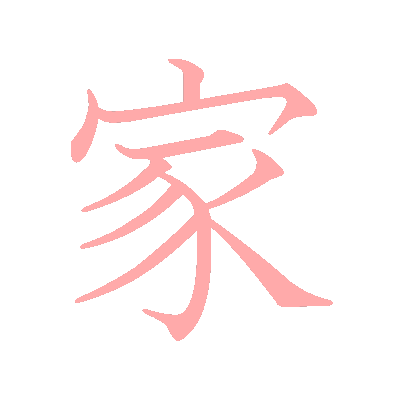
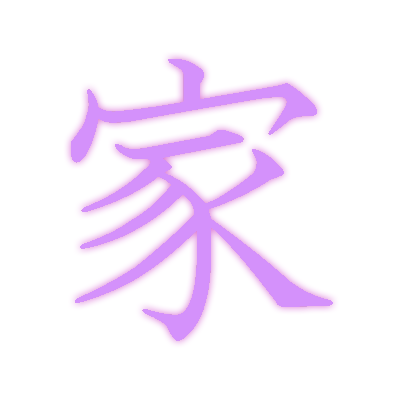
add background, custom header, change all site colors

Changed region(s): [[0.15, 0.12, 0.84, 0.87]]

diff --git a/css/styles.css b/css/styles.css
@@ -1,14 +1,17 @@
 .sidebar  {
   float: left;
   width: 150px;
-  background-color: rgb(85, 0, 0);
+  background-color: rgb(63, 19, 94);
 }
 body  {
-  background-color: rgb(128, 21, 21);
-  margin: 0px;
+  color: rgb(212, 145, 251);
+  background-image: url("../img/background.png");
+  background-repeat: no-repeat;
+  background-attachment: fixed;
+  background-position: center;
+  background-size: 100% 100%;
 }
 .sidetext  {
-    color: rgb(255, 170, 170);
     margin-left: 10px;
     margin-right: 10px;
     font-size: 11px;
@@ -20,22 +23,21 @@ body  {
   color: rgb(212, 106, 106);
 }
 .sideabout  {
-  color: rgb(255, 170, 170);
   margin-left: 10px;
   line-height: 100px;
 }
 .sideabout:hover  {
-  color: rgb(212, 106, 106);
+  color: rgb(173, 68, 124);
 }
 h1  {
   font-size: 15px;
   margin-left: 10px;
-  color: rgb(212, 106, 106);
+  color: rgb(173, 68, 124);
   text-decoration: underline;
 }
 a {
   text-decoration: none;
-  color: rgb(255, 170, 170);
+  color: rgb(212, 145, 251);
 }
 .container-fluid  {
   margin-left: 150px;
@@ -43,18 +45,17 @@ a {
   padding-top: 0px;
   border-top: 0px;
 }
-.jumbotron  {
-  background-color: rgb(0, 0, 0, 0);
-}
 .header {
   text-align: center;
 }
+.header p {
+  text-decoration: underline;
+}
 .abouttext  {
-  background-color: rgb(212, 106, 106);
+  background-color: rgba(173, 68, 124, 0.75);
   border: solid 5px;
   border-radius: 4px;
-  border-color: rgb(212, 106, 106);
-  color: rgb(255, 170, 170);
+  border-color: rgba(173, 68, 124, 0);
   text-shadow: 2px 2px 4px rgb(85, 0, 0);
 }
 .panel-heading  {
@@ -66,7 +67,7 @@ h5  {
 .selfie img {
   float: right;
   margin: 10px;
-  border: solid 2px rgb(85, 0, 0);
+  border: solid 2px rgb(173, 68, 124);
   border-radius: 2px;
 }
 .abouttext a {
@@ -74,10 +75,14 @@ h5  {
 }
 .header  {
   margin-bottom: 90px;
+  font-family: monospace;
 }
 .desc {
-  color: rgb(212, 106, 106);
+  color: rgb(173, 68, 124);
   margin-left: 15px;
   margin-right: 10px;
   font-size: 11px;
+}
+h2  {
+  font-size: 50px;
 }

diff --git a/index.html b/index.html
@@ -10,7 +10,7 @@
       <a href="index.html">
         <img src="img/home.png" alt="A picture of the Kanji for 'Home'" width="100%">
       </a>
-      <p class="sidetext"><span style="color:rgb(212, 106, 106)">_____________________</span></p>
+      <p class="sidetext"><span style="color:rgb(173, 68, 124)">_____________________</span></p>
       <p class="sidetext">Hi, thanks for checking out my site. Below you can find links to some of my GitHub repositories, and an 'About me' page. To the right are links to the actual sites themselves, if you'd rather just see how they look. Projects are listed newest to oldest.</p>
       <h1>Links to my Repos</h1>
       <a href="https://github.com/joepritch/wiki" target="_blank" class="sidelinks">Wikipedia Clone</a><br>
@@ -35,8 +35,8 @@
     </div>
     <div class="container-fluid">
       <div class="header">
-        <h2>Joe's Repos</h2>
-        <p>A portfolio for Joe Pritchett</p>
+        <img src="img/header.png" alt="header image" width="75%">
+        <p>A portfolio by Joe Pritchett</p>
       </div>
       <div class="row-fluid">
         <div class="col-md-4">

diff --git a/aboutme.html b/aboutme.html
@@ -35,7 +35,7 @@
     </div>
     <div class="container-fluid">
       <div class="header">
-        <h2>Joe's Repos</h2>
+        <img src="img/header.png" alt="header image" width="75%">
         <p>A portfolio for Joe Pritchett</p>
       </div>
       <div class="abouttext">
